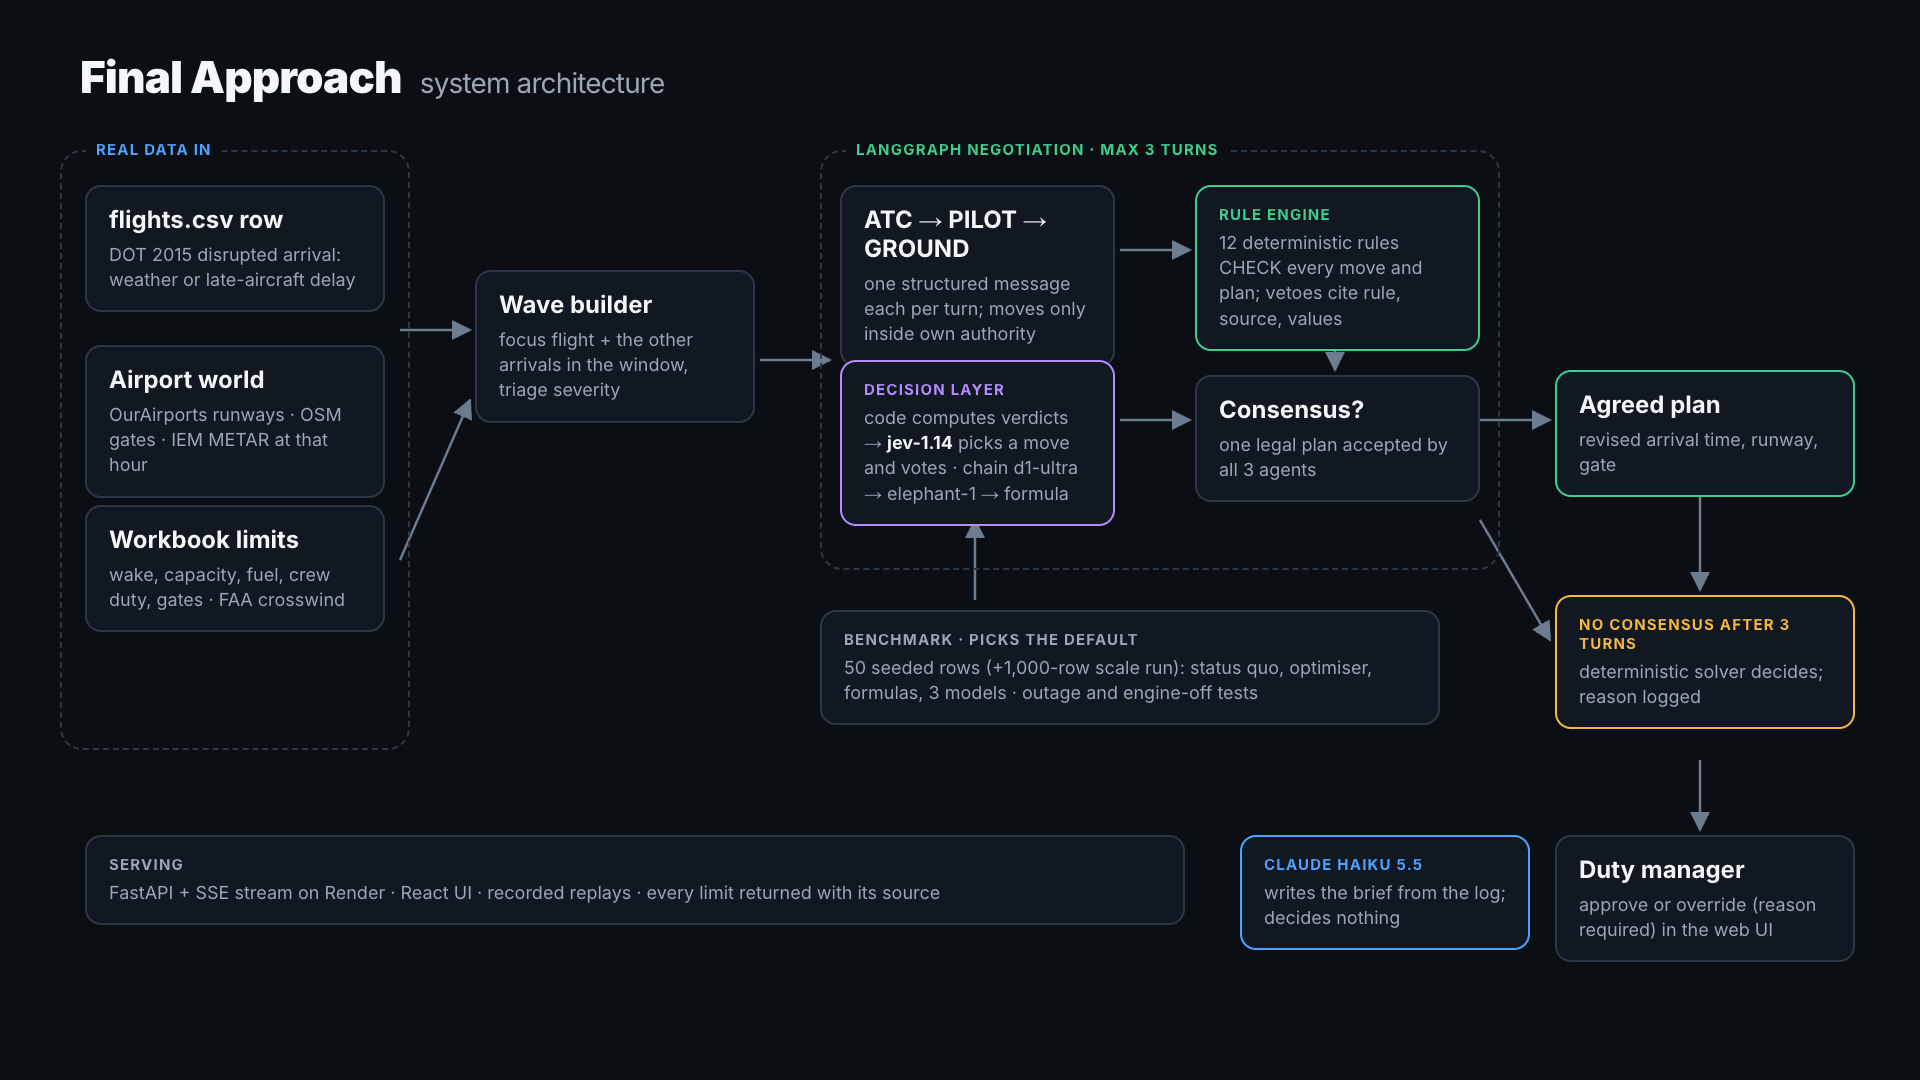
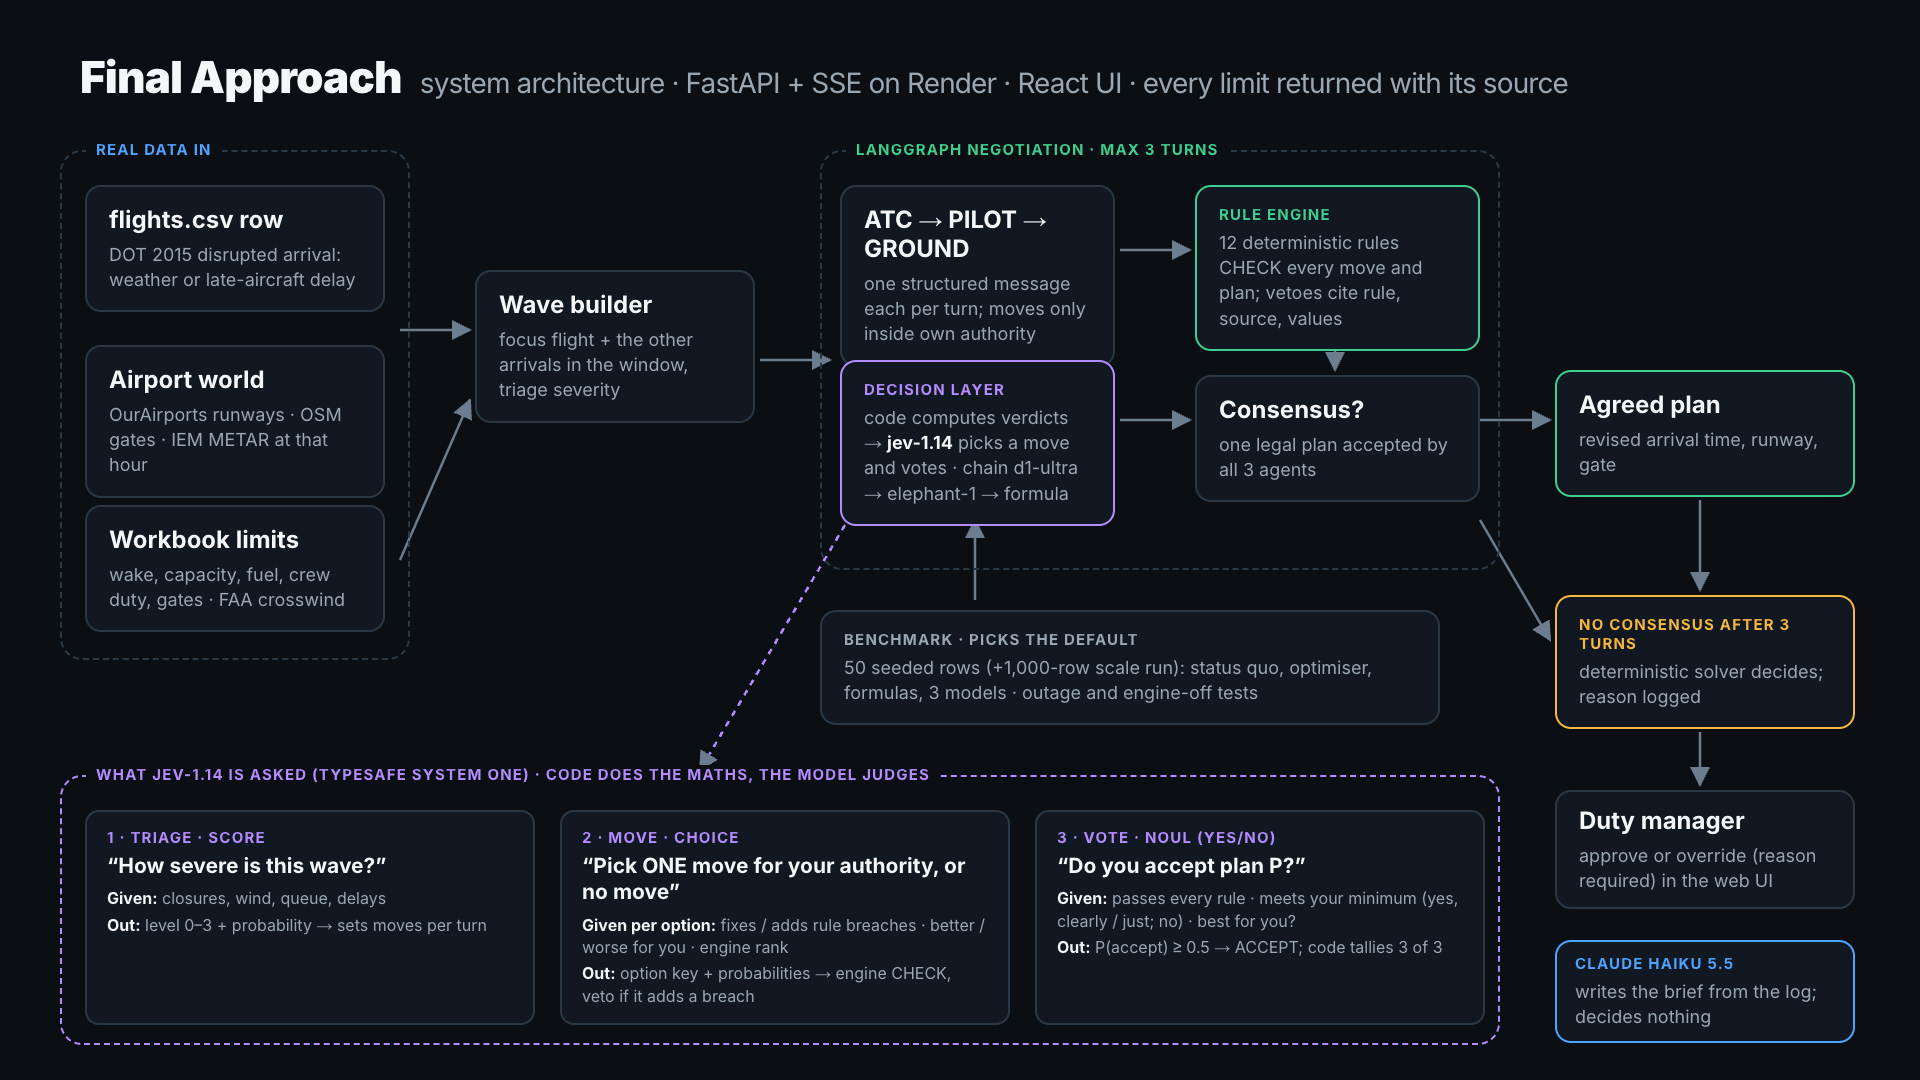
Architecture diagram: the three questions jev-1.14 answers (triage Score, move Choice, vote Noul), their pre-computed inputs and outputs
Claude-Session: https://claude.ai/code/session_01CZQD1apQx15EEBy5x3LDJF

diff --git a/docs/arch/index.html b/docs/arch/index.html
@@ -16,10 +16,14 @@ h1 span { color:var(--muted); font-weight:400; font-size:28px; margin-left:18px;
 .grp { position:absolute; border:2px dashed var(--line); border-radius:22px; }
 .grp > .k { position:absolute; top:-12px; left:24px; background:var(--bg); padding:0 10px; }
 svg { position:absolute; inset:0; }
+.q { position:absolute; top:810px; width:450px; height:215px; border:2px solid var(--line); border-radius:14px; padding:16px 20px; background:#111821; }
+.q b { display:block; font-size:21px; margin-bottom:8px; line-height:1.25; }
+.q p { font-size:16px; color:var(--muted); line-height:1.4; margin-top:4px; }
+.q i { font-style:normal; color:var(--ink); font-weight:700; }
 </style></head><body>
 <div id="root" data-composition-id="main" data-start="0" data-duration="2" data-width="1920" data-height="1080">
 <div id="d" class="clip" data-start="0" data-duration="2" data-track-index="0" data-layout-allow-overlap>
-<h1>Final Approach<span>system architecture</span></h1>
+<h1>Final Approach<span>system architecture · FastAPI + SSE on Render · React UI · every limit returned with its source</span></h1>
 <svg viewBox="0 0 1920 1080"><defs><marker id="a" viewBox="0 0 10 10" refX="9" refY="5" markerWidth="8" markerHeight="8" orient="auto"><path d="M0,0 L10,5 L0,10 z" fill="#6b7d8f"/></marker></defs>
 <g stroke="#6b7d8f" stroke-width="2.5" fill="none" marker-end="url(#a)">
 <path d="M400 330 L470 330"/><path d="M400 560 L470 400"/>
@@ -27,12 +31,12 @@ svg { position:absolute; inset:0; }
 <path d="M1120 250 L1190 250"/><path d="M1120 420 L1190 420"/>
 <path d="M1335 300 L1335 370"/>
 <path d="M1480 420 L1550 420"/><path d="M1480 520 L1550 640"/>
-<path d="M1700 480 L1700 590"/>
-<path d="M1700 760 L1700 830"/>
-<path d="M975 600 L975 520"/>
+<path d="M1700 500 L1700 590"/>
+<path d="M1700 732 L1700 785"/>
+<path d="M975 600 L975 520"/><path d="M845 525 L700 770" stroke="#b48cff" stroke-dasharray="6 6"/>
 </g></svg>
 
-<div class="grp" style="left:60px;top:150px;width:350px;height:600px"><div class="k" style="color:var(--blue)">Real data in</div></div>
+<div class="grp" style="left:60px;top:150px;width:350px;height:510px"><div class="k" style="color:var(--blue)">Real data in</div></div>
 <div class="b" style="left:85px;top:185px;width:300px"><b>flights.csv row</b><p>DOT 2015 disrupted arrival: weather or late-aircraft delay</p></div>
 <div class="b" style="left:85px;top:345px;width:300px"><b>Airport world</b><p>OurAirports runways · OSM gates · IEM METAR at that hour</p></div>
 <div class="b" style="left:85px;top:505px;width:300px"><b>Workbook limits</b><p>wake, capacity, fuel, crew duty, gates · FAA crosswind</p></div>
@@ -47,11 +51,14 @@ svg { position:absolute; inset:0; }
 
 <div class="b" style="left:1555px;top:370px;width:300px;border-color:var(--green)"><b>Agreed plan</b><p>revised arrival time, runway, gate</p></div>
 <div class="b" style="left:1555px;top:595px;width:300px;border-color:var(--amber)"><div class="k" style="color:var(--amber)">No consensus after 3 turns</div><p>deterministic solver decides; reason logged</p></div>
-<div class="b" style="left:1555px;top:835px;width:300px"><b>Duty manager</b><p>approve or override (reason required) in the web UI</p></div>
-<div class="b" style="left:1240px;top:835px;width:290px;border-color:var(--blue)"><div class="k" style="color:var(--blue)">Claude Haiku 5.5</div><p>writes the brief from the log; decides nothing</p></div>
+<div class="b" style="left:1555px;top:790px;width:300px;padding:14px 22px"><b>Duty manager</b><p>approve or override (reason required) in the web UI</p></div>
+<div class="b" style="left:1555px;top:940px;width:300px;padding:12px 18px;border-color:var(--blue)"><div class="k" style="color:var(--blue)">Claude Haiku 5.5</div><p>writes the brief from the log; decides nothing</p></div>
 
 <div class="b" style="left:820px;top:610px;width:620px"><div class="k" style="color:var(--muted)">Benchmark · picks the default</div><p>50 seeded rows (+1,000-row scale run): status quo, optimiser, formulas, 3 models · outage and engine-off tests</p></div>
-<div class="b" style="left:85px;top:835px;width:1100px"><div class="k" style="color:var(--muted)">Serving</div><p>FastAPI + SSE stream on Render · React UI · recorded replays · every limit returned with its source</p></div>
+<div class="grp" style="left:60px;top:775px;width:1440px;height:270px;border-color:var(--violet)"><div class="k" style="color:var(--violet)">What jev-1.14 is asked (TypeSafe System One) · code does the maths, the model judges</div></div>
+<div class="q" style="left:85px"><div class="k" style="color:var(--violet)">1 · Triage · Score</div><b>“How severe is this wave?”</b><p><i>Given:</i> closures, wind, queue, delays</p><p><i>Out:</i> level 0–3 + probability → sets moves per turn</p></div>
+<div class="q" style="left:560px"><div class="k" style="color:var(--violet)">2 · Move · Choice</div><b>“Pick ONE move for your authority, or no move”</b><p><i>Given per option:</i> fixes / adds rule breaches · better / worse for you · engine rank</p><p><i>Out:</i> option key + probabilities → engine CHECK, veto if it adds a breach</p></div>
+<div class="q" style="left:1035px"><div class="k" style="color:var(--violet)">3 · Vote · Noul (yes/no)</div><b>“Do you accept plan P?”</b><p><i>Given:</i> passes every rule · meets your minimum (yes, clearly / just; no) · best for you?</p><p><i>Out:</i> P(accept) ≥ 0.5 → ACCEPT; code tallies 3 of 3</p></div>
 </div></div>
 <script>const tl = gsap.timeline({ paused: true }); window.__timelines["main"] = tl; tl.seek(0);</script>
 </body></html>
